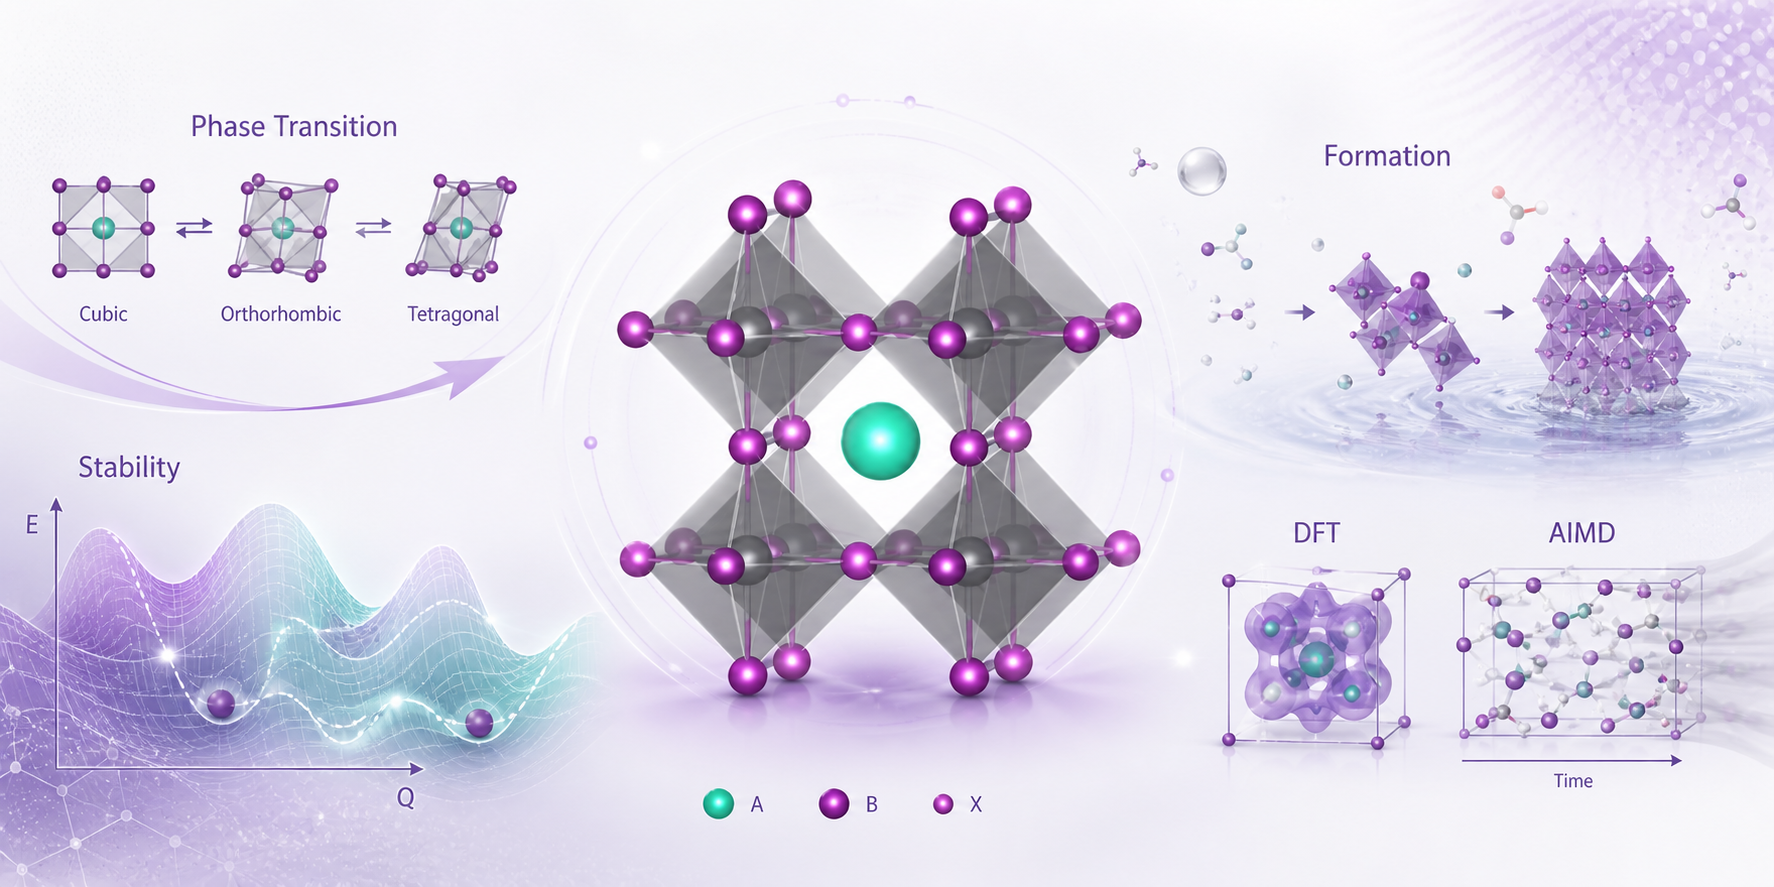
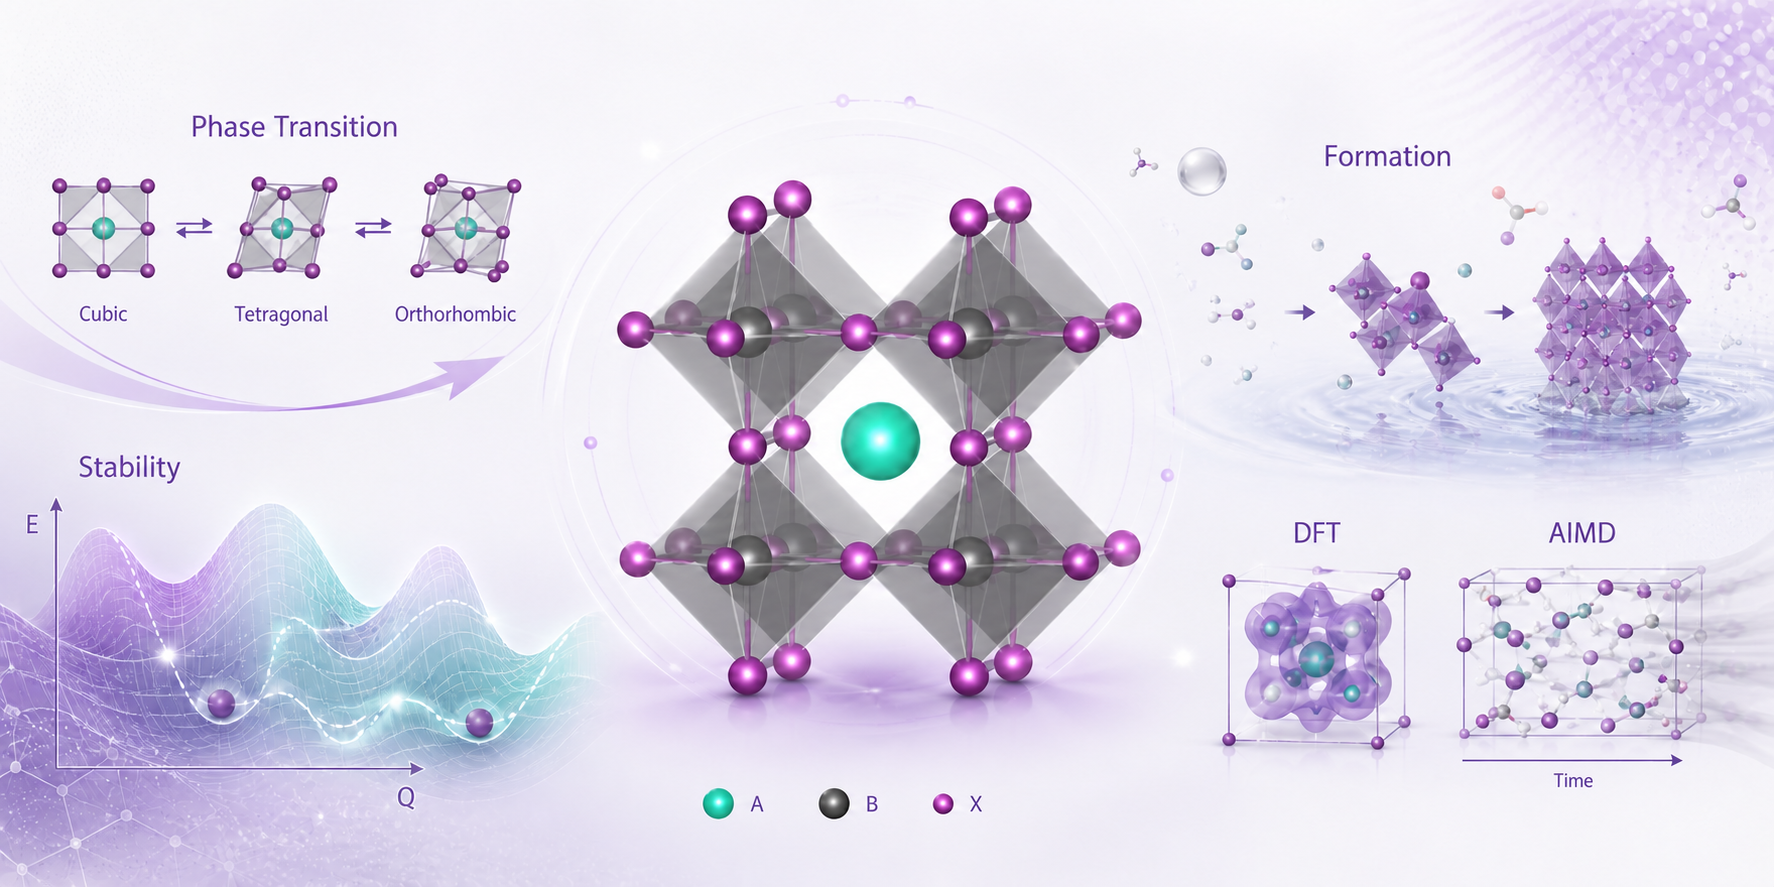
Correct perovskite phase order and B-site legend

diff --git a/index.html b/index.html
@@ -46,7 +46,7 @@
     <h2 class="jp-heading">Research Directions</h2>
     <p class="jp-lead">My work combines electronic-structure theory, atomistic dynamics, and data-driven simulation to understand hybrid semiconductors and metal-halide perovskites across structure, stability, and optoelectronic response.</p>
     <div class="jp-grid jp-grid--two">
-      <article class="jp-card jp-research-card"><img src="/media/research/materials-design.png" alt="Hybrid semiconductor models"><h3>Grain-Boundary Defects and Machine-Learning Force Fields</h3><p>At York, I work on defect dynamics at grain boundaries in hybrid semiconductors and on developing machine-learning force fields for realistic, large-scale simulations.</p><div class="jp-tag-row"><span class="jp-tag">Defect dynamics</span><span class="jp-tag">ML potentials</span><span class="jp-tag">Hybrid semiconductors</span></div></article><article class="jp-card jp-research-card"><img src="/media/research/energy-materials.png" alt="Perovskite stability"><h3>Perovskite Stability, Phase Transitions, and Formation</h3><p>I study the mechanisms that control phase stability, crystallization, solvent effects, and morphology in metal-halide perovskites using DFT and ab initio molecular dynamics.</p><div class="jp-tag-row"><span class="jp-tag">DFT</span><span class="jp-tag">AIMD</span><span class="jp-tag">Crystallization</span></div></article><article class="jp-card jp-research-card"><img src="/media/research/electronic-structure.png" alt="Electronic structure methods"><h3>Efficient Electronic-Structure Methods</h3><p>A major direction is the development and validation of DFTB parameters for large periodic and non-periodic perovskite systems, including 3D, 2D, and heterostructured iodide perovskites.</p><div class="jp-tag-row"><span class="jp-tag">DFTB</span><span class="jp-tag">Electronic structure</span><span class="jp-tag">Large-scale simulation</span></div></article><article class="jp-card jp-research-card"><img src="/media/research/semiconductor-devices.png" alt="Semiconductor device modelling"><h3>Optoelectronic and Dielectric Properties</h3><p>I use atomistic modelling to understand layered perovskites, quantum dots, dopants, surfaces, interfaces, and device-relevant behavior for photovoltaics and light-emitting applications.</p><div class="jp-tag-row"><span class="jp-tag">PV</span><span class="jp-tag">LED</span><span class="jp-tag">Interfaces</span></div></article>
+      <article class="jp-card jp-research-card"><img src="/media/research/materials-design.png" alt="Hybrid semiconductor models"><h3>Grain-Boundary Defects and Machine-Learning Force Fields</h3><p>At York, I work on defect dynamics at grain boundaries in hybrid semiconductors and on developing machine-learning force fields for realistic, large-scale simulations.</p><div class="jp-tag-row"><span class="jp-tag">Defect dynamics</span><span class="jp-tag">ML potentials</span><span class="jp-tag">Hybrid semiconductors</span></div></article><article class="jp-card jp-research-card"><img src="/media/research/energy-materials.png?v=phase-legend-2" alt="Perovskite stability"><h3>Perovskite Stability, Phase Transitions, and Formation</h3><p>I study the mechanisms that control phase stability, crystallization, solvent effects, and morphology in metal-halide perovskites using DFT and ab initio molecular dynamics.</p><div class="jp-tag-row"><span class="jp-tag">DFT</span><span class="jp-tag">AIMD</span><span class="jp-tag">Crystallization</span></div></article><article class="jp-card jp-research-card"><img src="/media/research/electronic-structure.png" alt="Electronic structure methods"><h3>Efficient Electronic-Structure Methods</h3><p>A major direction is the development and validation of DFTB parameters for large periodic and non-periodic perovskite systems, including 3D, 2D, and heterostructured iodide perovskites.</p><div class="jp-tag-row"><span class="jp-tag">DFTB</span><span class="jp-tag">Electronic structure</span><span class="jp-tag">Large-scale simulation</span></div></article><article class="jp-card jp-research-card"><img src="/media/research/semiconductor-devices.png" alt="Semiconductor device modelling"><h3>Optoelectronic and Dielectric Properties</h3><p>I use atomistic modelling to understand layered perovskites, quantum dots, dopants, surfaces, interfaces, and device-relevant behavior for photovoltaics and light-emitting applications.</p><div class="jp-tag-row"><span class="jp-tag">PV</span><span class="jp-tag">LED</span><span class="jp-tag">Interfaces</span></div></article>
     </div>
     <div class="jp-link-list">
       <a class="jp-button" href="/research/">Explore research</a>

diff --git a/projects/index.html b/projects/index.html
@@ -10,7 +10,7 @@
 </section>
 <section class="jp-section">
   <div class="jp-container jp-grid jp-grid--two">
-    <article class="jp-card jp-research-card"><img src="/media/research/materials-design.png" alt="Hybrid semiconductor models"><h3>Grain-Boundary Defects and Machine-Learning Force Fields</h3><p>At York, I work on defect dynamics at grain boundaries in hybrid semiconductors and on developing machine-learning force fields for realistic, large-scale simulations.</p><div class="jp-tag-row"><span class="jp-tag">Defect dynamics</span><span class="jp-tag">ML potentials</span><span class="jp-tag">Hybrid semiconductors</span></div></article><article class="jp-card jp-research-card"><img src="/media/research/energy-materials.png" alt="Perovskite stability"><h3>Perovskite Stability, Phase Transitions, and Formation</h3><p>I study the mechanisms that control phase stability, crystallization, solvent effects, and morphology in metal-halide perovskites using DFT and ab initio molecular dynamics.</p><div class="jp-tag-row"><span class="jp-tag">DFT</span><span class="jp-tag">AIMD</span><span class="jp-tag">Crystallization</span></div></article><article class="jp-card jp-research-card"><img src="/media/research/electronic-structure.png" alt="Electronic structure methods"><h3>Efficient Electronic-Structure Methods</h3><p>A major direction is the development and validation of DFTB parameters for large periodic and non-periodic perovskite systems, including 3D, 2D, and heterostructured iodide perovskites.</p><div class="jp-tag-row"><span class="jp-tag">DFTB</span><span class="jp-tag">Electronic structure</span><span class="jp-tag">Large-scale simulation</span></div></article><article class="jp-card jp-research-card"><img src="/media/research/semiconductor-devices.png" alt="Semiconductor device modelling"><h3>Optoelectronic and Dielectric Properties</h3><p>I use atomistic modelling to understand layered perovskites, quantum dots, dopants, surfaces, interfaces, and device-relevant behavior for photovoltaics and light-emitting applications.</p><div class="jp-tag-row"><span class="jp-tag">PV</span><span class="jp-tag">LED</span><span class="jp-tag">Interfaces</span></div></article>
+    <article class="jp-card jp-research-card"><img src="/media/research/materials-design.png" alt="Hybrid semiconductor models"><h3>Grain-Boundary Defects and Machine-Learning Force Fields</h3><p>At York, I work on defect dynamics at grain boundaries in hybrid semiconductors and on developing machine-learning force fields for realistic, large-scale simulations.</p><div class="jp-tag-row"><span class="jp-tag">Defect dynamics</span><span class="jp-tag">ML potentials</span><span class="jp-tag">Hybrid semiconductors</span></div></article><article class="jp-card jp-research-card"><img src="/media/research/energy-materials.png?v=phase-legend-2" alt="Perovskite stability"><h3>Perovskite Stability, Phase Transitions, and Formation</h3><p>I study the mechanisms that control phase stability, crystallization, solvent effects, and morphology in metal-halide perovskites using DFT and ab initio molecular dynamics.</p><div class="jp-tag-row"><span class="jp-tag">DFT</span><span class="jp-tag">AIMD</span><span class="jp-tag">Crystallization</span></div></article><article class="jp-card jp-research-card"><img src="/media/research/electronic-structure.png" alt="Electronic structure methods"><h3>Efficient Electronic-Structure Methods</h3><p>A major direction is the development and validation of DFTB parameters for large periodic and non-periodic perovskite systems, including 3D, 2D, and heterostructured iodide perovskites.</p><div class="jp-tag-row"><span class="jp-tag">DFTB</span><span class="jp-tag">Electronic structure</span><span class="jp-tag">Large-scale simulation</span></div></article><article class="jp-card jp-research-card"><img src="/media/research/semiconductor-devices.png" alt="Semiconductor device modelling"><h3>Optoelectronic and Dielectric Properties</h3><p>I use atomistic modelling to understand layered perovskites, quantum dots, dopants, surfaces, interfaces, and device-relevant behavior for photovoltaics and light-emitting applications.</p><div class="jp-tag-row"><span class="jp-tag">PV</span><span class="jp-tag">LED</span><span class="jp-tag">Interfaces</span></div></article>
   </div>
 </section>
 <section class="jp-section jp-section--soft">

diff --git a/research/index.html b/research/index.html
@@ -10,7 +10,7 @@
 </section>
 <section class="jp-section">
   <div class="jp-container jp-grid jp-grid--two">
-    <article class="jp-card jp-research-card"><img src="/media/research/materials-design.png" alt="Hybrid semiconductor models"><h3>Grain-Boundary Defects and Machine-Learning Force Fields</h3><p>At York, I work on defect dynamics at grain boundaries in hybrid semiconductors and on developing machine-learning force fields for realistic, large-scale simulations.</p><div class="jp-tag-row"><span class="jp-tag">Defect dynamics</span><span class="jp-tag">ML potentials</span><span class="jp-tag">Hybrid semiconductors</span></div></article><article class="jp-card jp-research-card"><img src="/media/research/energy-materials.png" alt="Perovskite stability"><h3>Perovskite Stability, Phase Transitions, and Formation</h3><p>I study the mechanisms that control phase stability, crystallization, solvent effects, and morphology in metal-halide perovskites using DFT and ab initio molecular dynamics.</p><div class="jp-tag-row"><span class="jp-tag">DFT</span><span class="jp-tag">AIMD</span><span class="jp-tag">Crystallization</span></div></article><article class="jp-card jp-research-card"><img src="/media/research/electronic-structure.png" alt="Electronic structure methods"><h3>Efficient Electronic-Structure Methods</h3><p>A major direction is the development and validation of DFTB parameters for large periodic and non-periodic perovskite systems, including 3D, 2D, and heterostructured iodide perovskites.</p><div class="jp-tag-row"><span class="jp-tag">DFTB</span><span class="jp-tag">Electronic structure</span><span class="jp-tag">Large-scale simulation</span></div></article><article class="jp-card jp-research-card"><img src="/media/research/semiconductor-devices.png" alt="Semiconductor device modelling"><h3>Optoelectronic and Dielectric Properties</h3><p>I use atomistic modelling to understand layered perovskites, quantum dots, dopants, surfaces, interfaces, and device-relevant behavior for photovoltaics and light-emitting applications.</p><div class="jp-tag-row"><span class="jp-tag">PV</span><span class="jp-tag">LED</span><span class="jp-tag">Interfaces</span></div></article>
+    <article class="jp-card jp-research-card"><img src="/media/research/materials-design.png" alt="Hybrid semiconductor models"><h3>Grain-Boundary Defects and Machine-Learning Force Fields</h3><p>At York, I work on defect dynamics at grain boundaries in hybrid semiconductors and on developing machine-learning force fields for realistic, large-scale simulations.</p><div class="jp-tag-row"><span class="jp-tag">Defect dynamics</span><span class="jp-tag">ML potentials</span><span class="jp-tag">Hybrid semiconductors</span></div></article><article class="jp-card jp-research-card"><img src="/media/research/energy-materials.png?v=phase-legend-2" alt="Perovskite stability"><h3>Perovskite Stability, Phase Transitions, and Formation</h3><p>I study the mechanisms that control phase stability, crystallization, solvent effects, and morphology in metal-halide perovskites using DFT and ab initio molecular dynamics.</p><div class="jp-tag-row"><span class="jp-tag">DFT</span><span class="jp-tag">AIMD</span><span class="jp-tag">Crystallization</span></div></article><article class="jp-card jp-research-card"><img src="/media/research/electronic-structure.png" alt="Electronic structure methods"><h3>Efficient Electronic-Structure Methods</h3><p>A major direction is the development and validation of DFTB parameters for large periodic and non-periodic perovskite systems, including 3D, 2D, and heterostructured iodide perovskites.</p><div class="jp-tag-row"><span class="jp-tag">DFTB</span><span class="jp-tag">Electronic structure</span><span class="jp-tag">Large-scale simulation</span></div></article><article class="jp-card jp-research-card"><img src="/media/research/semiconductor-devices.png" alt="Semiconductor device modelling"><h3>Optoelectronic and Dielectric Properties</h3><p>I use atomistic modelling to understand layered perovskites, quantum dots, dopants, surfaces, interfaces, and device-relevant behavior for photovoltaics and light-emitting applications.</p><div class="jp-tag-row"><span class="jp-tag">PV</span><span class="jp-tag">LED</span><span class="jp-tag">Interfaces</span></div></article>
   </div>
 </section>
 <section class="jp-section jp-section--soft">

diff --git a/tools/update_academic_site.py b/tools/update_academic_site.py
@@ -1451,7 +1451,7 @@ RESEARCH_DIRECTIONS = [
         "tags": ["Defect dynamics", "ML potentials", "Hybrid semiconductors"],
     },
     {
-        "image": "/media/research/energy-materials.png",
+        "image": "/media/research/energy-materials.png?v=phase-legend-2",
         "alt": "Perovskite stability",
         "title": "Perovskite Stability, Phase Transitions, and Formation",
         "description": "I study the mechanisms that control phase stability, crystallization, solvent effects, and morphology in metal-halide perovskites using DFT and ab initio molecular dynamics.",
